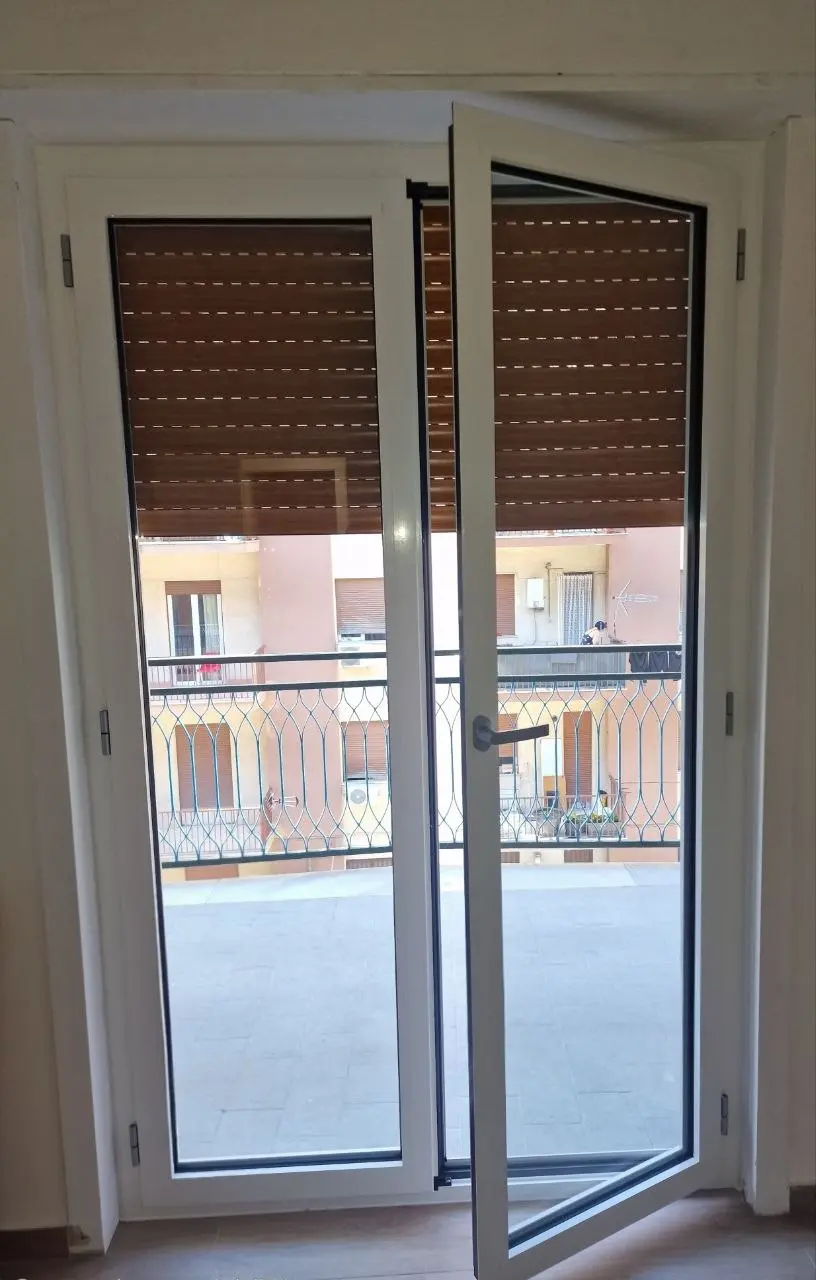
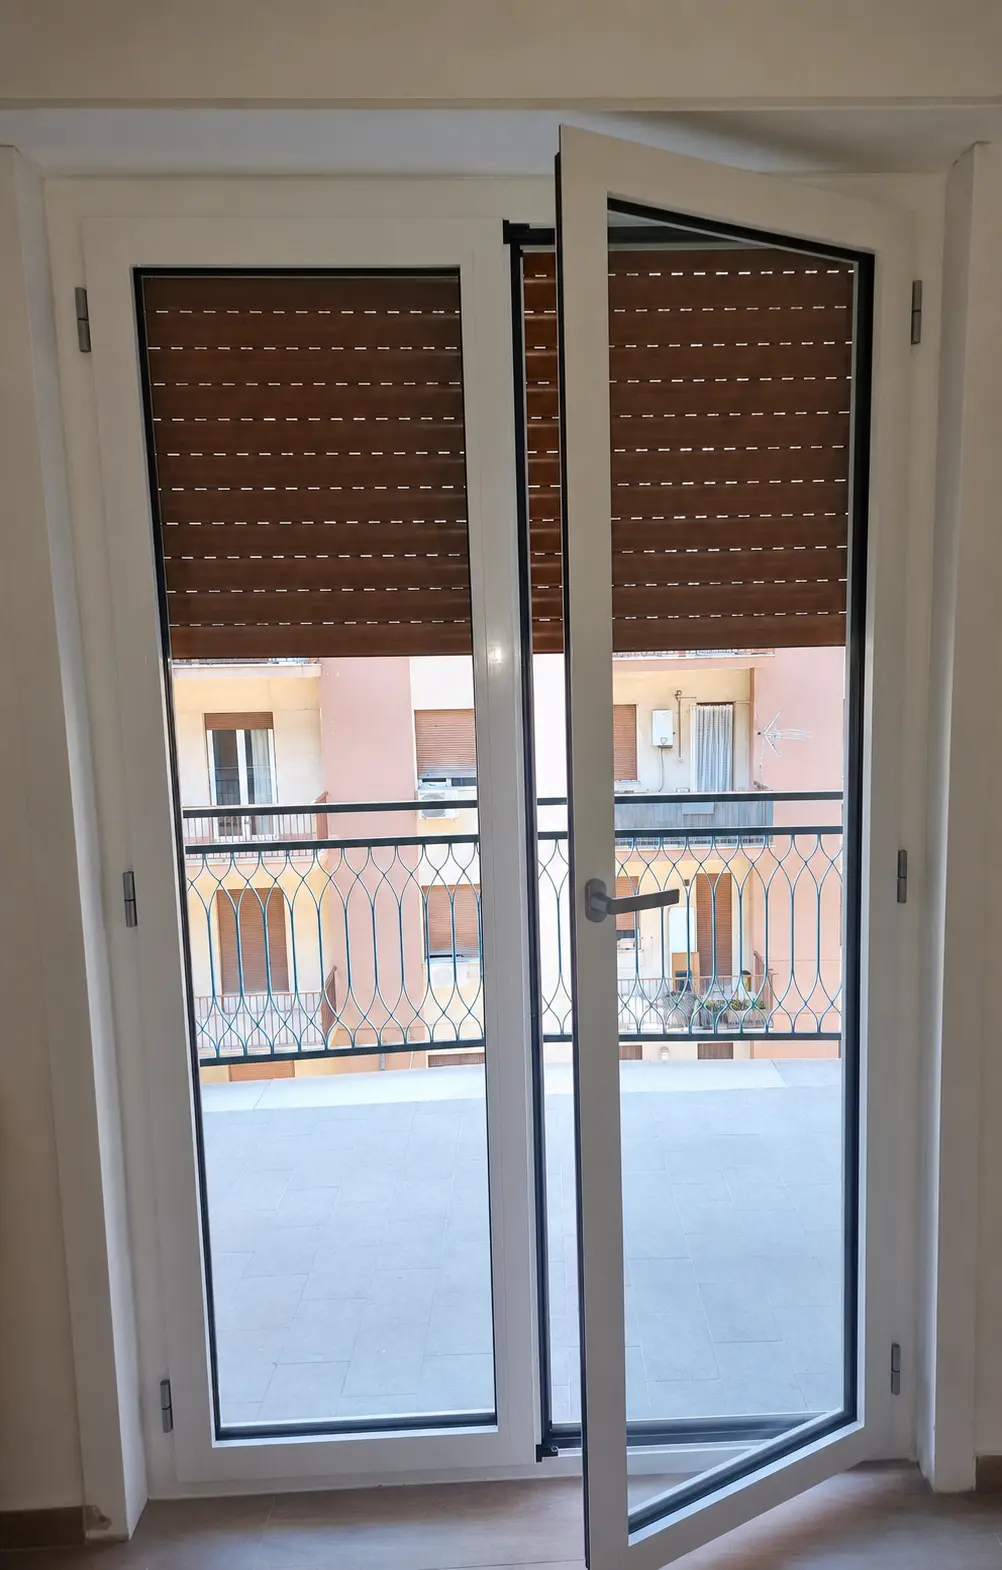
feat: converte immagini upload in WebP prima del salvataggio su Blob
Ogni nuovo upload (paste, file locale, casella di transito) passa da
lib/image-convert.ts (sharp, resize max 2000px + WebP q82) prima di
finire su Vercel Blob, invece di affidarsi solo a next/image in fase
di richiesta. Le immagini scelte da URL/blob già esistenti restano
invariate (nessun nuovo upload).

diff --git a/app/api/categoria-immagini/route.ts b/app/api/categoria-immagini/route.ts
@@ -7,6 +7,7 @@ import {
   upsertImmagineCategoria, upsertImmagineSottocategoria,
   type TipoCategoriaImmagini, type TipoConSottocategoria, type SlotImmagine,
 } from '@/lib/categoria-immagini'
+import { isConvertibleImageExt, toWebpFile } from '@/lib/image-convert'
 
 function safe(s: string): string {
   return s.toLowerCase().replace(/[^a-z0-9]+/g, '-').replace(/^-|-$/g, '') || 'x'
@@ -45,6 +46,9 @@ export async function POST(req: NextRequest) {
   if (file.size > 5 * 1024 * 1024)
     return NextResponse.json({ ok: false, error: 'File troppo grande (max 5 MB).' })
 
+  const uploadFile = isConvertibleImageExt(ext) ? await toWebpFile(file) : file
+  const uploadExt  = isConvertibleImageExt(ext) ? 'webp' : ext
+
   const db = await getConnection()
   try {
     await ensureCategoriaImmaginiTables(db)
@@ -54,8 +58,8 @@ export async function POST(req: NextRequest) {
       : await getImmagineSottocategoria(db, tipo as TipoConSottocategoria, categoria, sottocategoria)
     if (oldUrl && oldUrl.startsWith('https://')) await del(oldUrl).catch(() => {})
 
-    const filename = `${tipo}-${safe(categoria)}-${safe(sottocategoria)}-${slot}-${Date.now()}.${ext}`
-    const blob = await put(`categoria-immagini/${filename}`, file, { access: 'public' })
+    const filename = `${tipo}-${safe(categoria)}-${safe(sottocategoria)}-${slot}-${Date.now()}.${uploadExt}`
+    const blob = await put(`categoria-immagini/${filename}`, uploadFile, { access: 'public' })
 
     if (slot === 'categoria') await upsertImmagineCategoria(db, tipo, categoria, blob.url)
     else await upsertImmagineSottocategoria(db, tipo as TipoConSottocategoria, categoria, sottocategoria, blob.url)

diff --git a/lib/image-convert.ts b/lib/image-convert.ts
@@ -1,0 +1,40 @@
+import sharp from 'sharp'
+
+const IMAGE_EXTS = new Set(['jpg', 'jpeg', 'png', 'webp'])
+
+export function isConvertibleImageExt(ext: string): boolean {
+  return IMAGE_EXTS.has(ext.toLowerCase().replace(/^\./, ''))
+}
+
+// file.arrayBuffer() tronca i binari in questa versione di Next.js (vedi feedback
+// memory) — si legge sempre via stream + Buffer.concat.
+async function readFileBuffer(file: File): Promise<Buffer> {
+  const reader = file.stream().getReader()
+  const chunks: Uint8Array[] = []
+  for (;;) {
+    const { done, value } = await reader.read()
+    if (done) break
+    if (value) chunks.push(value)
+  }
+  return Buffer.concat(chunks.map(c => Buffer.from(c)))
+}
+
+/** Converte un'immagine (jpg/png/webp incollata o caricata) in WebP prima di
+ * salvarla su Blob: il copia-incolla da clipboard produce quasi sempre PNG
+ * pesanti indipendentemente dalla sorgente — meglio comprimere qui una volta
+ * sola che affidarsi a next/image (che alleggerisce solo in fase di richiesta,
+ * lasciando comunque l'originale pesante su storage). GIF esclusi (animazioni). */
+export async function toWebpFile(file: File, opts?: { maxDim?: number; quality?: number }): Promise<File> {
+  const buffer = await readFileBuffer(file)
+  const webpBuffer = await sharp(buffer)
+    .resize({
+      width: opts?.maxDim ?? 2000,
+      height: opts?.maxDim ?? 2000,
+      fit: 'inside',
+      withoutEnlargement: true,
+    })
+    .webp({ quality: opts?.quality ?? 82 })
+    .toBuffer()
+  const baseName = file.name.replace(/\.[^.]+$/, '')
+  return new File([new Uint8Array(webpBuffer)], `${baseName}.webp`, { type: 'image/webp' })
+}

diff --git a/app/api/listini/foto/route.ts b/app/api/listini/foto/route.ts
@@ -4,6 +4,7 @@ import { getConnection } from '@/lib/db'
 import { readSettings } from '@/lib/settings'
 import { hasPageAccess } from '@/lib/permissions'
 import { put, del } from '@vercel/blob'
+import { isConvertibleImageExt, toWebpFile } from '@/lib/image-convert'
 
 export async function POST(req: NextRequest) {
   const cookieStore = await cookies()
@@ -31,6 +32,9 @@ export async function POST(req: NextRequest) {
   if (file.size > 5 * 1024 * 1024)
     return NextResponse.json({ ok: false, error: 'File troppo grande (max 5 MB).' })
 
+  const uploadFile = isConvertibleImageExt(ext) ? await toWebpFile(file) : file
+  const uploadExt  = isConvertibleImageExt(ext) ? 'webp' : ext
+
   const db = await getConnection()
   try {
     const [rows] = await db.query(`SELECT ${col} AS url FROM listini WHERE id=? LIMIT 1`, [id]) as [Record<string, unknown>[], unknown]
@@ -40,8 +44,8 @@ export async function POST(req: NextRequest) {
       await del(oldUrl).catch(() => {})
     }
 
-    const filename = `${id}-${tipo}-${Date.now()}.${ext}`
-    const blob = await put(`listini/${filename}`, file, { access: 'public' })
+    const filename = `${id}-${tipo}-${Date.now()}.${uploadExt}`
+    const blob = await put(`listini/${filename}`, uploadFile, { access: 'public' })
 
     await db.execute(`UPDATE listini SET ${col}=? WHERE id=?`, [blob.url, id])
 

diff --git a/app/api/listini/transito/route.ts b/app/api/listini/transito/route.ts
@@ -3,6 +3,7 @@ import { cookies } from 'next/headers'
 import { readSettings } from '@/lib/settings'
 import { hasPageAccess } from '@/lib/permissions'
 import { put } from '@vercel/blob'
+import { isConvertibleImageExt, toWebpFile } from '@/lib/image-convert'
 
 export async function POST(req: NextRequest) {
   const cookieStore = await cookies()
@@ -25,6 +26,9 @@ export async function POST(req: NextRequest) {
   if (file.size > 5 * 1024 * 1024)
     return NextResponse.json({ ok: false, error: 'File troppo grande (max 5 MB).' })
 
-  const blob = await put(`listini/transito-${Date.now()}.${ext}`, file, { access: 'public' })
+  const uploadFile = isConvertibleImageExt(ext) ? await toWebpFile(file) : file
+  const uploadExt  = isConvertibleImageExt(ext) ? 'webp' : ext
+
+  const blob = await put(`listini/transito-${Date.now()}.${uploadExt}`, uploadFile, { access: 'public' })
   return NextResponse.json({ ok: true, url: blob.url })
 }

diff --git a/docs/2026-07-31-18-49-conversione-webp-upload-immagini.md b/docs/2026-07-31-18-49-conversione-webp-upload-immagini.md
@@ -1,0 +1,19 @@
+# Conversione automatica in WebP degli upload immagine
+
+**Data:** 2026-07-31
+**Stato:** completato
+
+## Riepilogo implementazione
+
+- `lib/image-convert.ts` (nuovo): `isConvertibleImageExt(ext)` (jpg/jpeg/png/webp, esclude gif), `toWebpFile(file, opts?)` — legge il file via stream (mai `arrayBuffer()`, tronca i binari in questa versione di Next.js), lo passa a `sharp` con resize `fit:'inside'` (max 2000px, `withoutEnlargement`) e ricodifica in WebP qualità 82.
+- `app/api/categoria-immagini/route.ts`, `app/api/listini/foto/route.ts`, `app/api/listini/transito/route.ts`: prima dell'upload su Vercel Blob, se l'estensione è convertibile passano il file per `toWebpFile()` e caricano `.webp` invece dell'originale.
+- GIF esclusi (animazioni, non convertibili senza perdere i frame).
+
+## Obiettivo
+
+Qualsiasi immagine nuova caricata su Blob (paste da clipboard, "Carica" da file locale, casella di transito) viene compressa una volta sola lato server prima del salvataggio, invece di affidarsi a `next/image` che alleggerisce solo in fase di richiesta lasciando comunque l'originale pesante su storage.
+
+## Nessun impatto su
+
+- Scelta di un'immagine già esistente (blob picker "Scegli da Blob"/"da file locali", drag&drop cella→cella, casella di transito trascinata su altra riga): questi percorsi riusano un URL già presente in DB, nessun nuovo upload, nessuna conversione — l'immagine resta identica all'originale già caricato in precedenza.
+- Cancellazione dei blob vecchi: invariata per ciascuna route (vedi codice esistente).
